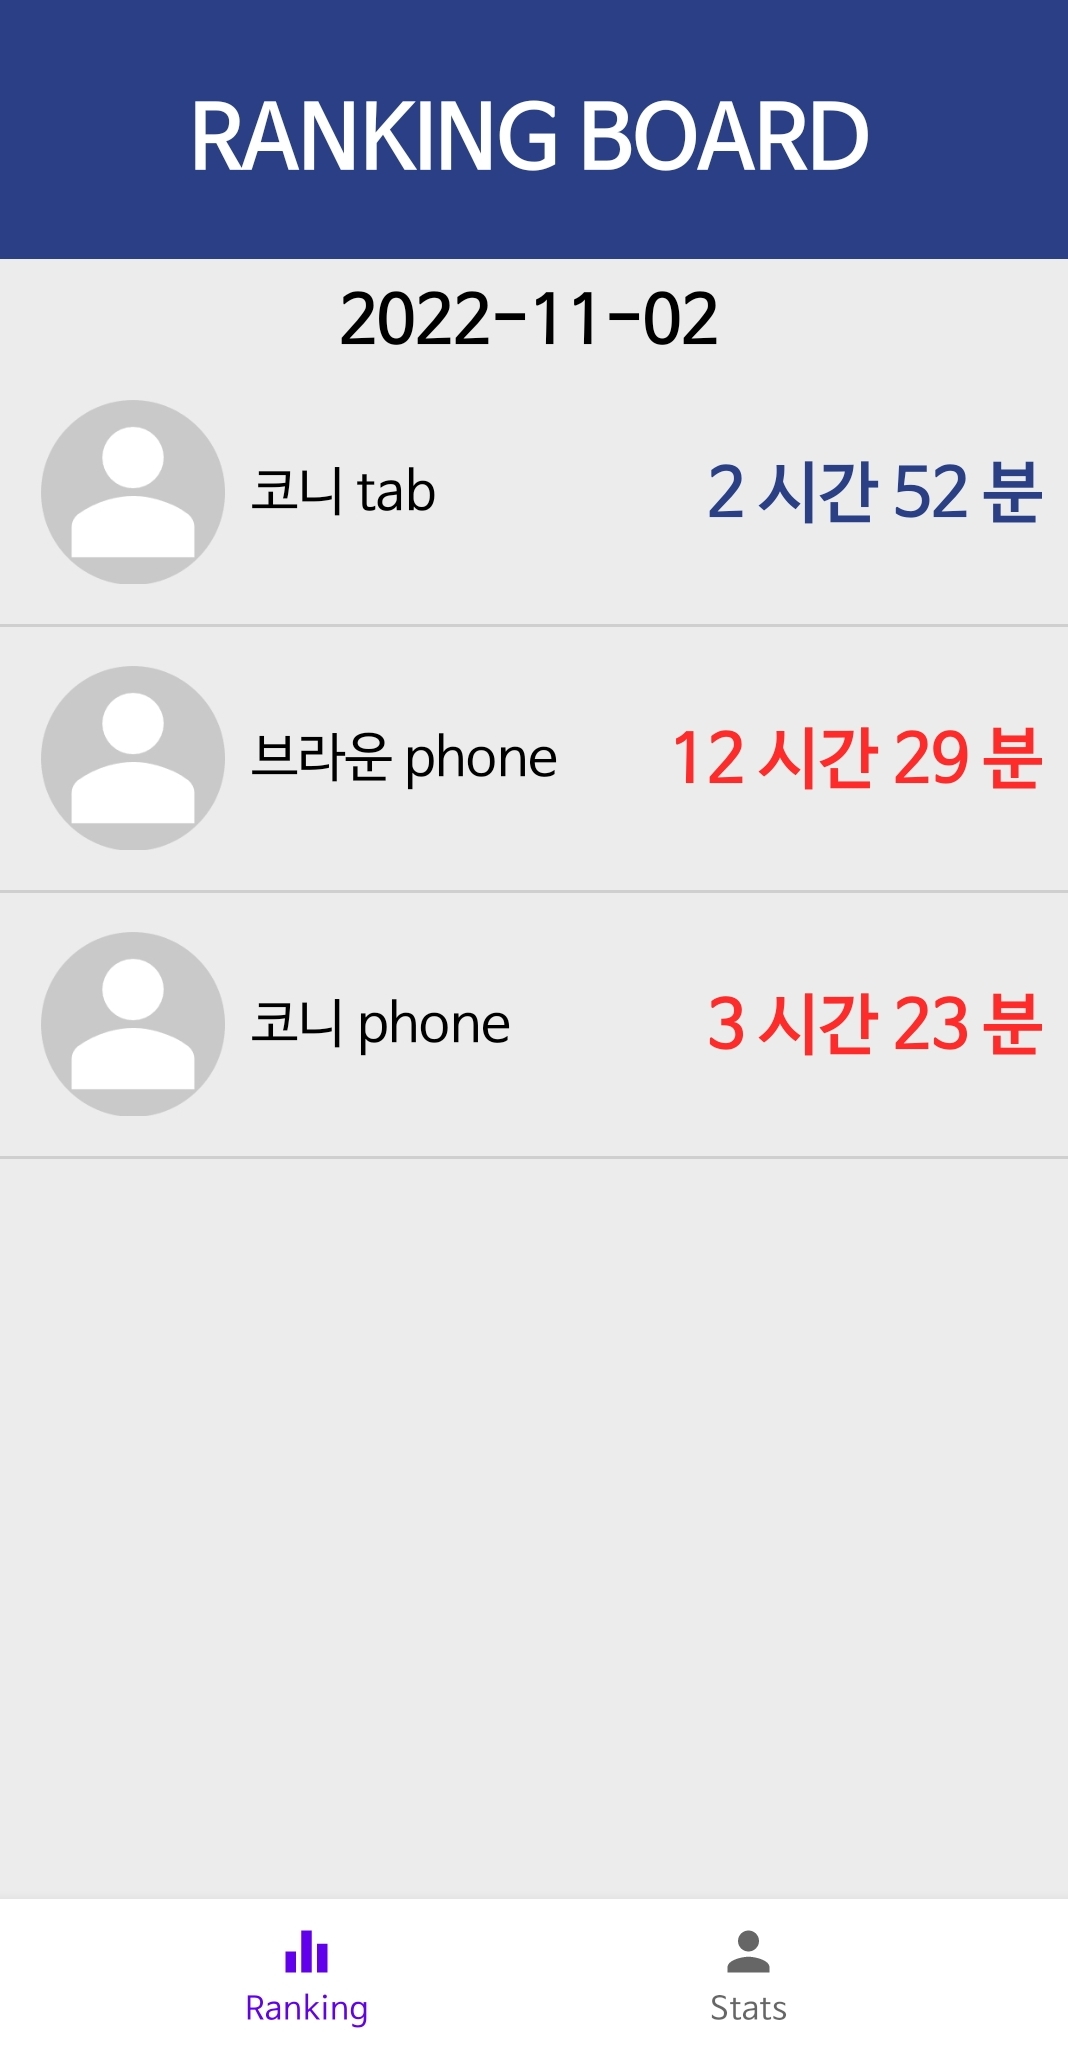
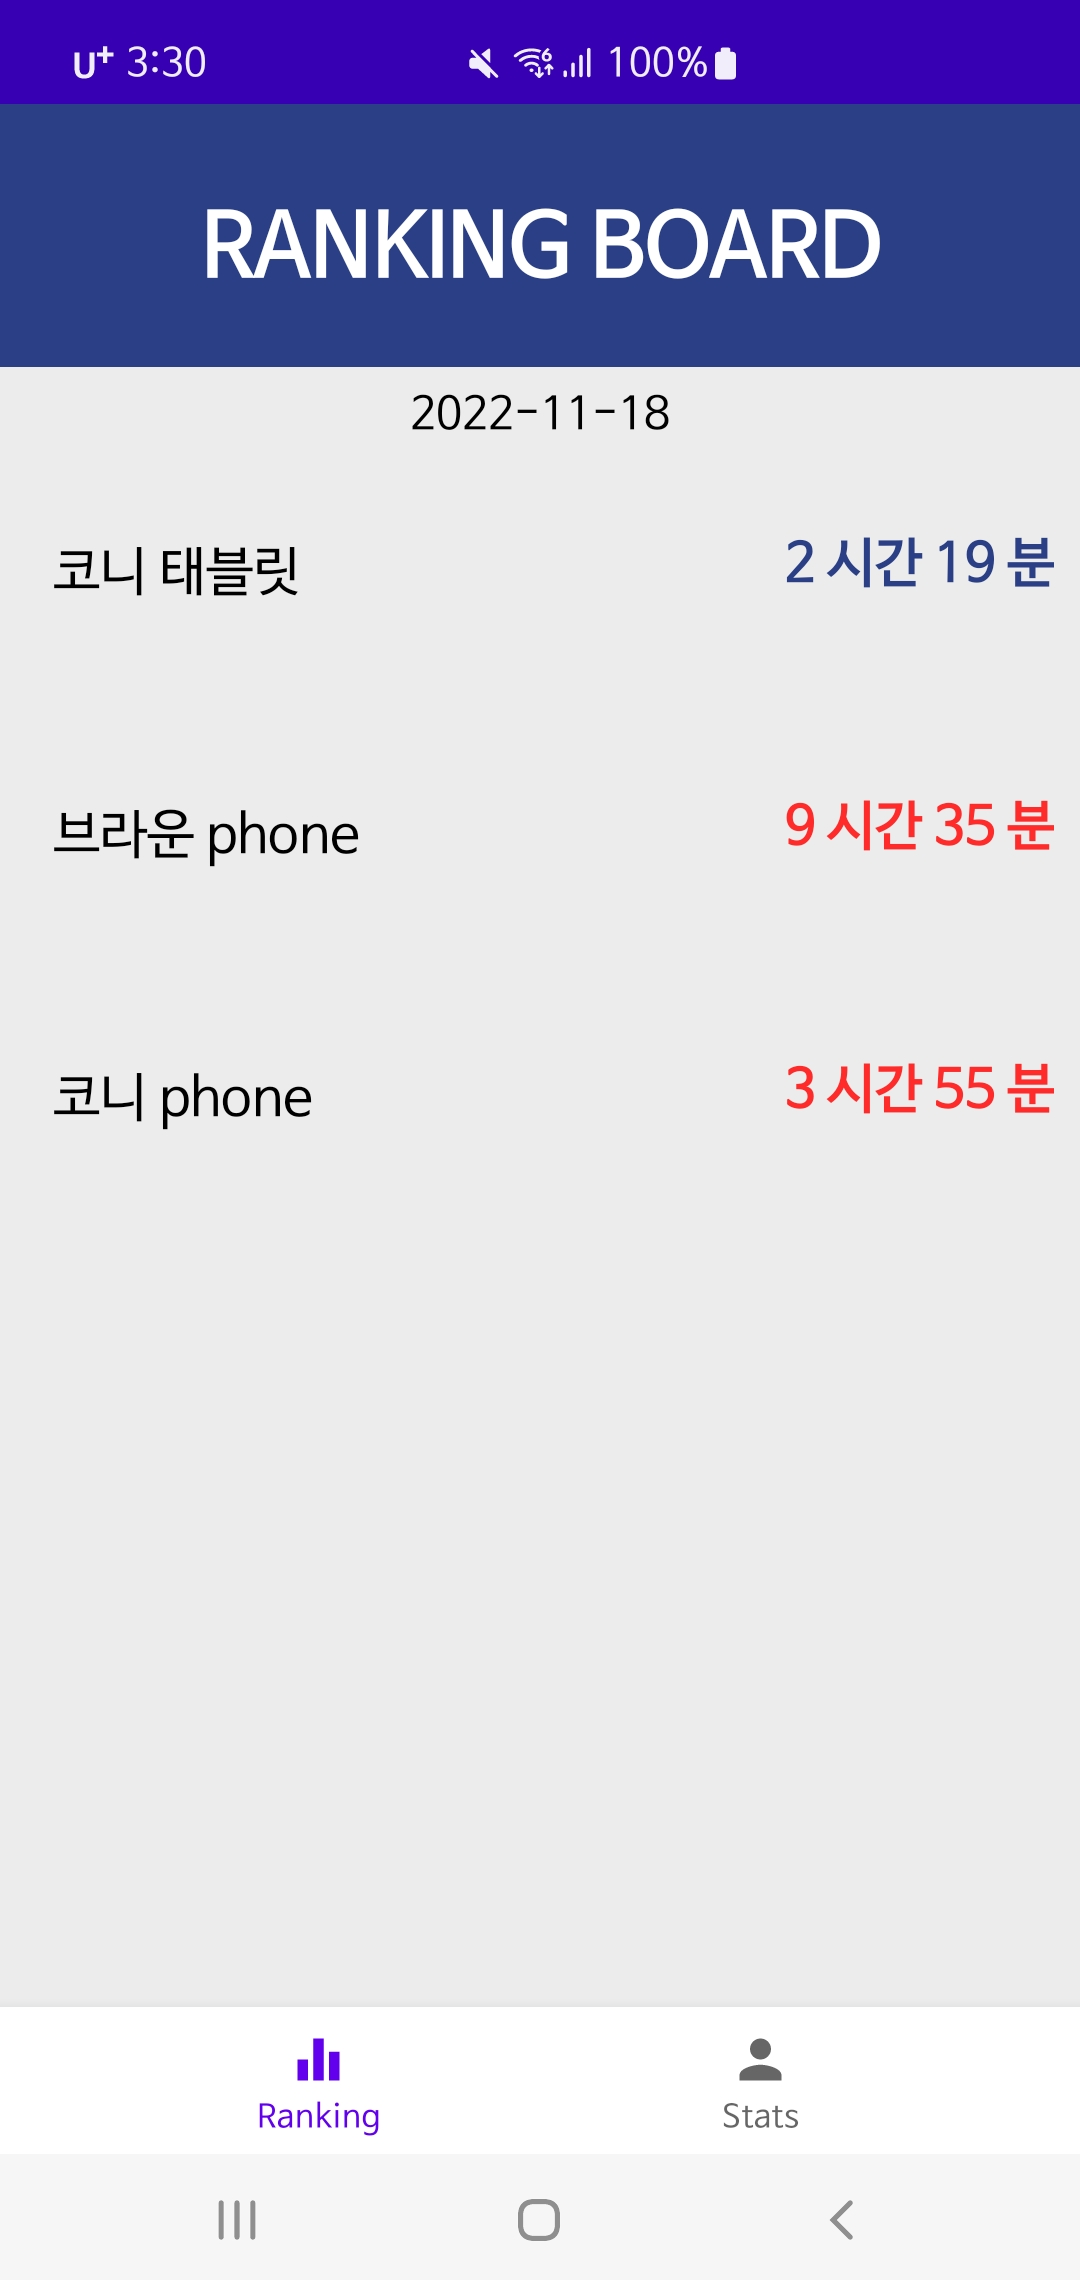
[feat] stats UI 수정

diff --git a/app/src/main/java/com/example/screendetox/dashboard/StatsActivity.kt b/app/src/main/java/com/example/screendetox/dashboard/StatsActivity.kt
@@ -11,6 +11,8 @@ import androidx.recyclerview.widget.RecyclerView
 import com.example.screendetox.R
 import com.example.screendetox.data.App
 import com.example.screendetox.databinding.ActivityStatsBinding
+import java.time.LocalDateTime
+import java.time.format.DateTimeFormatter
 import java.util.concurrent.TimeUnit
 import java.util.stream.Collectors
 
@@ -45,11 +47,19 @@ class StatsActivity : AppCompatActivity() {
         }
         recyclerView = binding.appsRecyclerView
         recyclerView.layoutManager = LinearLayoutManager(this)
+        loadTodayDate()
     }
 
     override fun onStart(){
        super.onStart()
        loadStatistics()
+    }
+
+    private fun loadTodayDate() {
+        val current = LocalDateTime.now()
+        val formatter = DateTimeFormatter.ofPattern("yyyy-MM-dd")
+        val formatted = current.format(formatter)
+        binding.statsDateTv.text = formatted
     }
 
     private fun loadStatistics() {
@@ -72,7 +82,7 @@ class StatsActivity : AppCompatActivity() {
         // get total time of apps usage to calculate the usagePercentage for each app
         val totalTime = appList.stream().map { obj: UsageStats -> obj.totalTimeInForeground }
             .mapToLong {obj : Long -> obj }.sum()
-
+        binding.statsUserDuration.text = getDurationBreakdown(totalTime)
         // fill the appsList
         for (usageStats in appList){
             try {

diff --git a/README.md b/README.md
@@ -1,6 +1,9 @@
 # :mobile_phone_off:ScreenDetox
 ScreenDetox는 친구들과 함께하는 스마트폰 중독 방지 애플리케이션입니다. 목표 사용 시간을 설정하고 친구들과 함께 스마트폰 사용 시간을 줄여 보세요.
 
+<center><img src="./screenshots/screenshots.png" width="90%" height="90%"></center>
+
+
 ## About
 
 * 2022년 2학기 경희대학교 소프트웨어융합캡스톤디자인
